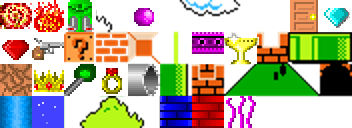
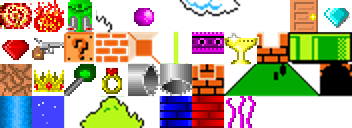
Level 4 made, collision added to blue brick

Changed region(s): [[0.4375, 0.5, 0.5625, 0.75]]

diff --git a/app/main.js b/app/main.js
@@ -45,6 +45,7 @@ level.create = _ => {
     //map.setCollisionByIndex(10)
     map.setCollisionByIndex(23)
     map.setCollisionByIndex(34)
+    map.setCollisionByIndex(39)
     map.setCollisionByIndex(17)
     map.setCollisionByIndex(18)
     map.setCollisionByIndex(40)
